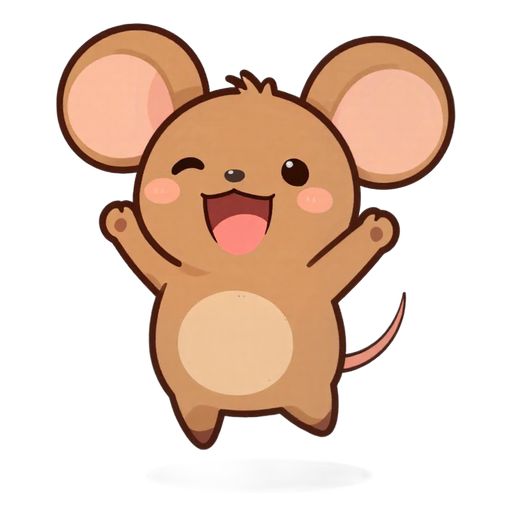
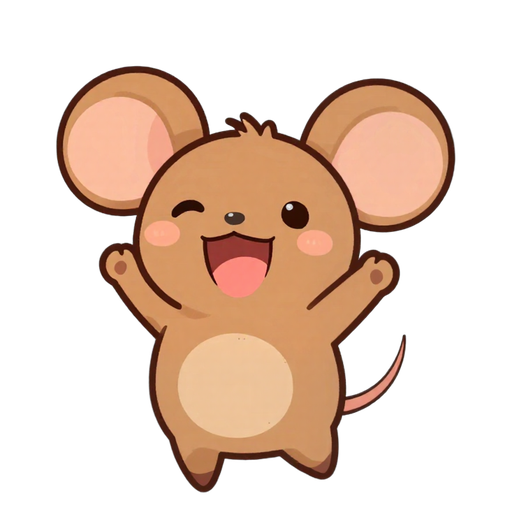
fix: 主角圖裁切時清掉腳下的淡影子（小老鼠 happy 那一圈灰）
hero-trim.py 多一步 drop_shadows：跟人物分開、幾乎沒顏色、很透明、在人物底部附近的色塊當成影子清掉。
掃過所有主角的姿勢只有 mouse/happy 與 alien/surprised 符合；重裁這兩個主角，其他姿勢的圖一模一樣（比例沒變）。

diff --git a/scripts/hero-trim.py b/scripts/hero-trim.py
@@ -1,16 +1,55 @@
 # 主角圖最後一步（由 scripts/hero.mjs 呼叫）：把去背好的姿勢裁到人物、所有姿勢用同一個比例、底部對齊、放進正方形。
 #   python hero-trim.py <去背資料夾> <輸出資料夾> <姿勢...>
 import sys
+from collections import deque
 from pathlib import Path
+import numpy as np
 from PIL import Image
 
 work, out, poses = Path(sys.argv[1]), Path(sys.argv[2]), sys.argv[3:]
 SIZE = 512          # 輸出邊長
 MARGIN = 0.04       # 四周留一點白，描邊濾鏡才不會被切
 
+def drop_shadows(img):
+    """
+    模型常在腳下畫一圈淡淡的影子，去背後留成一塊跟人物分開的灰色（例如小老鼠 happy）。
+    跟最大那塊（人物）分開、幾乎沒有顏色、很透明、又在人物底部附近的色塊，就是影子，清掉。
+    2026-10-21 掃過所有主角的姿勢，只有 mouse/happy 與 alien/surprised 符合，其他都不受影響。
+    """
+    px = np.array(img)
+    alpha = px[..., 3]
+    mask = alpha > 24
+    h, w = mask.shape
+    seen = np.zeros((h, w), bool)
+    parts = []
+    for y, x in zip(*np.nonzero(mask)):
+        if seen[y, x]:
+            continue
+        seen[y, x] = True
+        q, pts = deque([(y, x)]), []
+        while q:
+            cy, cx = q.popleft()
+            pts.append((cy, cx))
+            for ny, nx in ((cy + 1, cx), (cy - 1, cx), (cy, cx + 1), (cy, cx - 1)):
+                if 0 <= ny < h and 0 <= nx < w and mask[ny, nx] and not seen[ny, nx]:
+                    seen[ny, nx] = True
+                    q.append((ny, nx))
+        parts.append(pts)
+    if len(parts) < 2:
+        return img
+    parts.sort(key=len, reverse=True)
+    bottom = max(p[0] for p in parts[0])
+    for pts in parts[1:]:
+        ys = np.array([p[0] for p in pts]); xs = np.array([p[1] for p in pts])
+        rgb = px[ys, xs, :3] / 255
+        sat = (rgb.max(1) - rgb.min(1)).mean()
+        if len(pts) > 200 and sat < 0.05 and px[ys, xs, 3].mean() < 120 and ys.min() > bottom - 40:
+            px[ys, xs, 3] = 0
+    return Image.fromarray(px)
+
 def clean(img):
-    # 去背留下的淡淡雜點不算進人物範圍
-    img = img.convert('RGBA')
+    # 去背留下的淡淡雜點、腳下的影子不算進人物範圍
+    img = drop_shadows(img.convert('RGBA'))
     a = img.getchannel('A').point(lambda v: 255 if v > 24 else 0)
     return img, a.getbbox()
 
